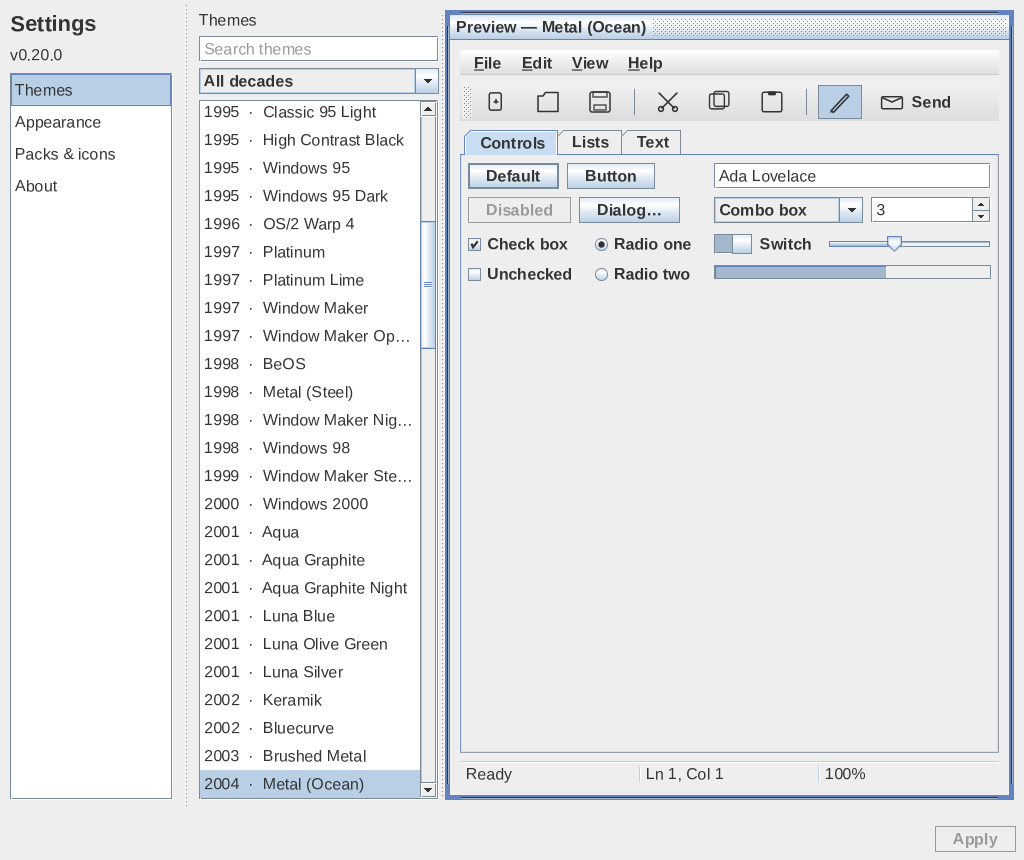
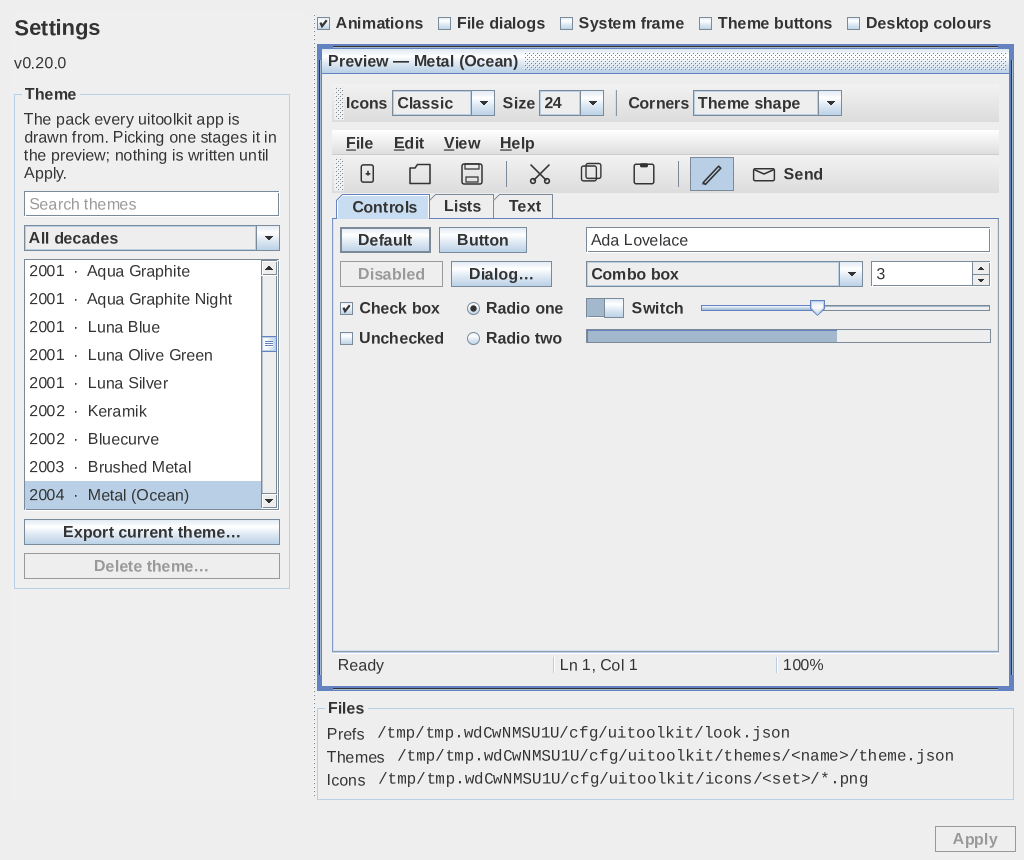
docs(screenshots): the picture of Settings is the page Settings is
docs/screenshots/settings.webp was still the four pages behind a
sidebar — Themes, Appearance, Packs & icons, About — which went two
releases ago. It is the one page now: the theme browser down the column,
the five options in a row over the preview, the settings the preview
carries on its own bar, and the three paths under it. Rendered headless
by the same pipeline tools/shots/demos.sh uses.

Changed region(s): [[0.0, 0.0, 1.0, 0.9372]]

diff --git a/README.md b/README.md
@@ -297,7 +297,7 @@ repository.
 
 ### Settings — the theme browser
 
-![Settings: the theme browser and the live preview beside it](docs/screenshots/settings.webp)
+![Settings: the theme browser, the row of options and the live preview beside them](docs/screenshots/settings.webp)
 
 Search or filter 129 packs, and the one you pick is drawn at once as a
 live application window beside the list — frame, caption and every
